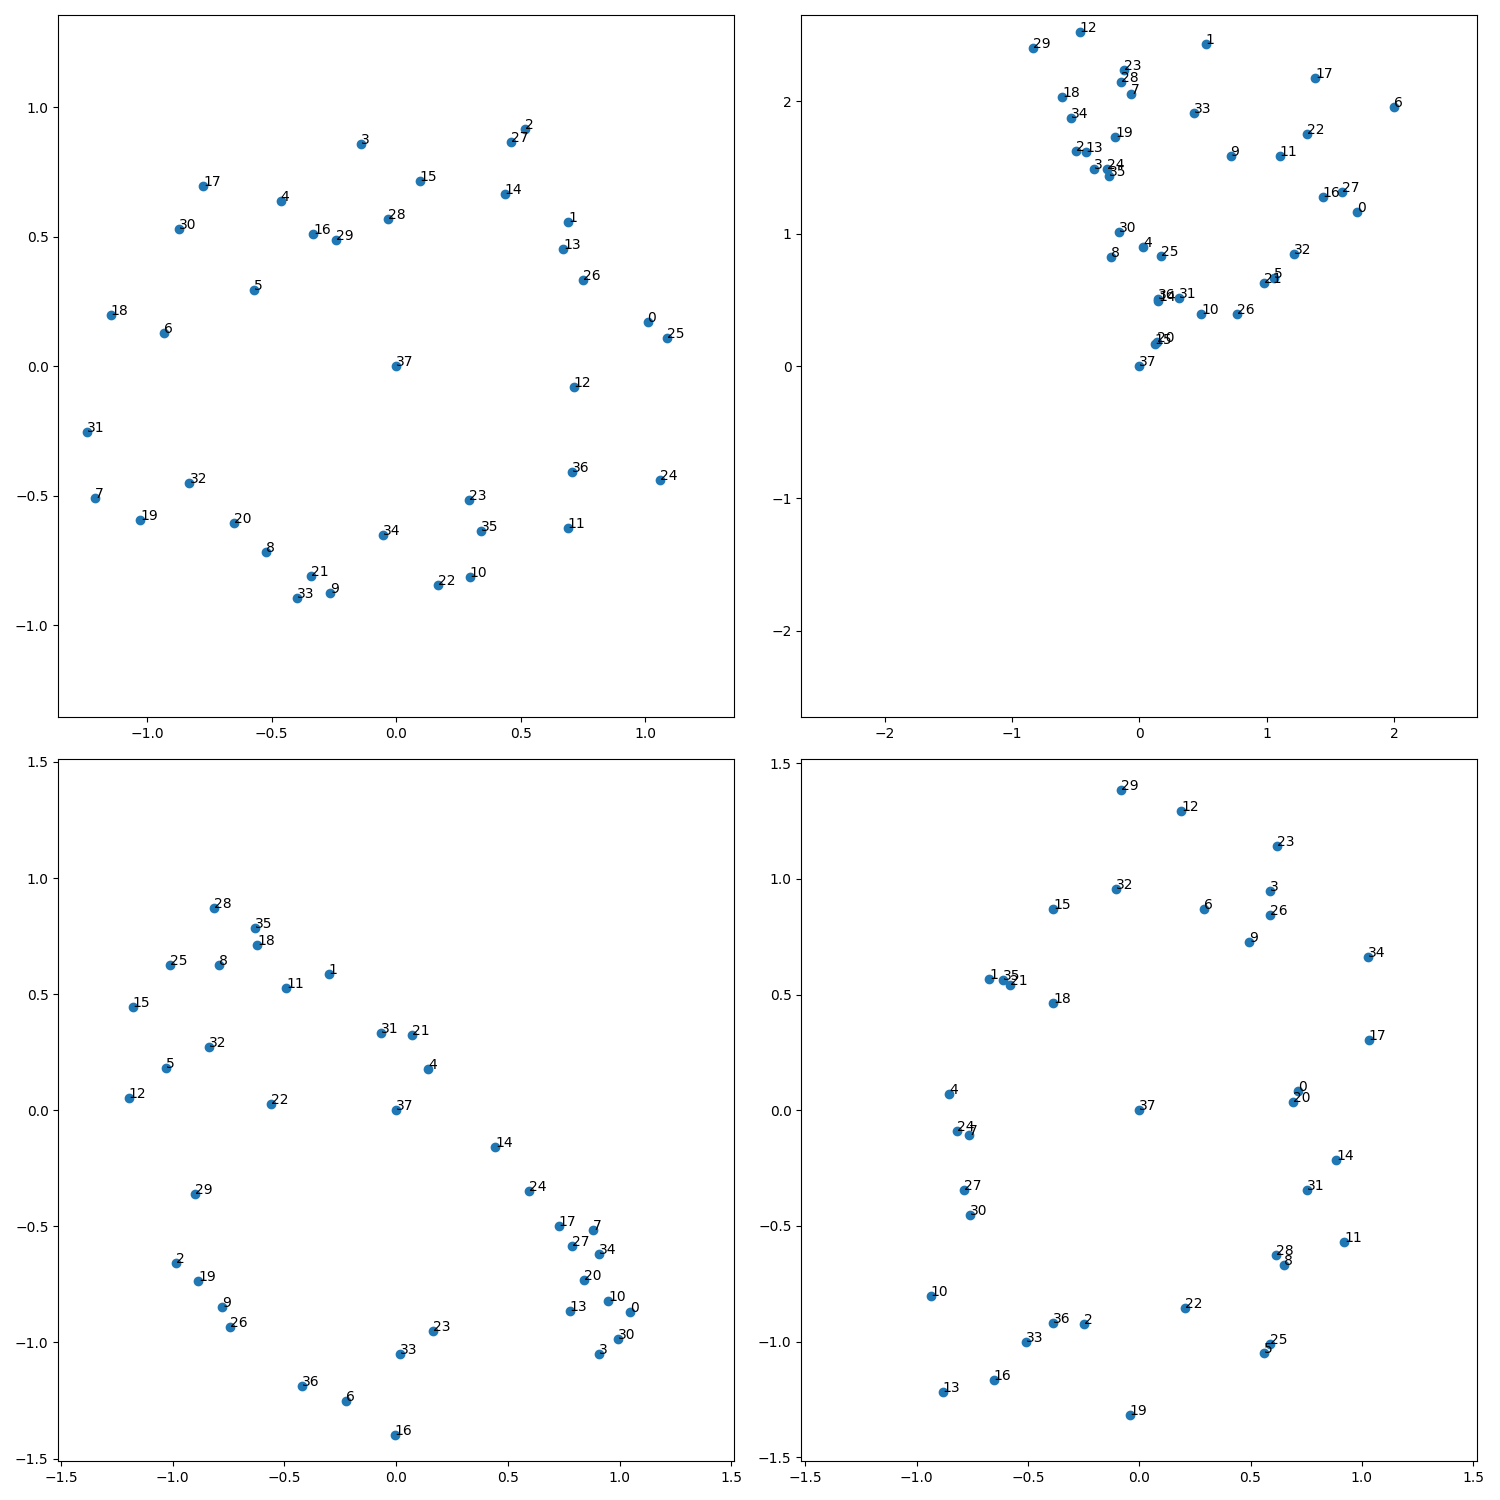
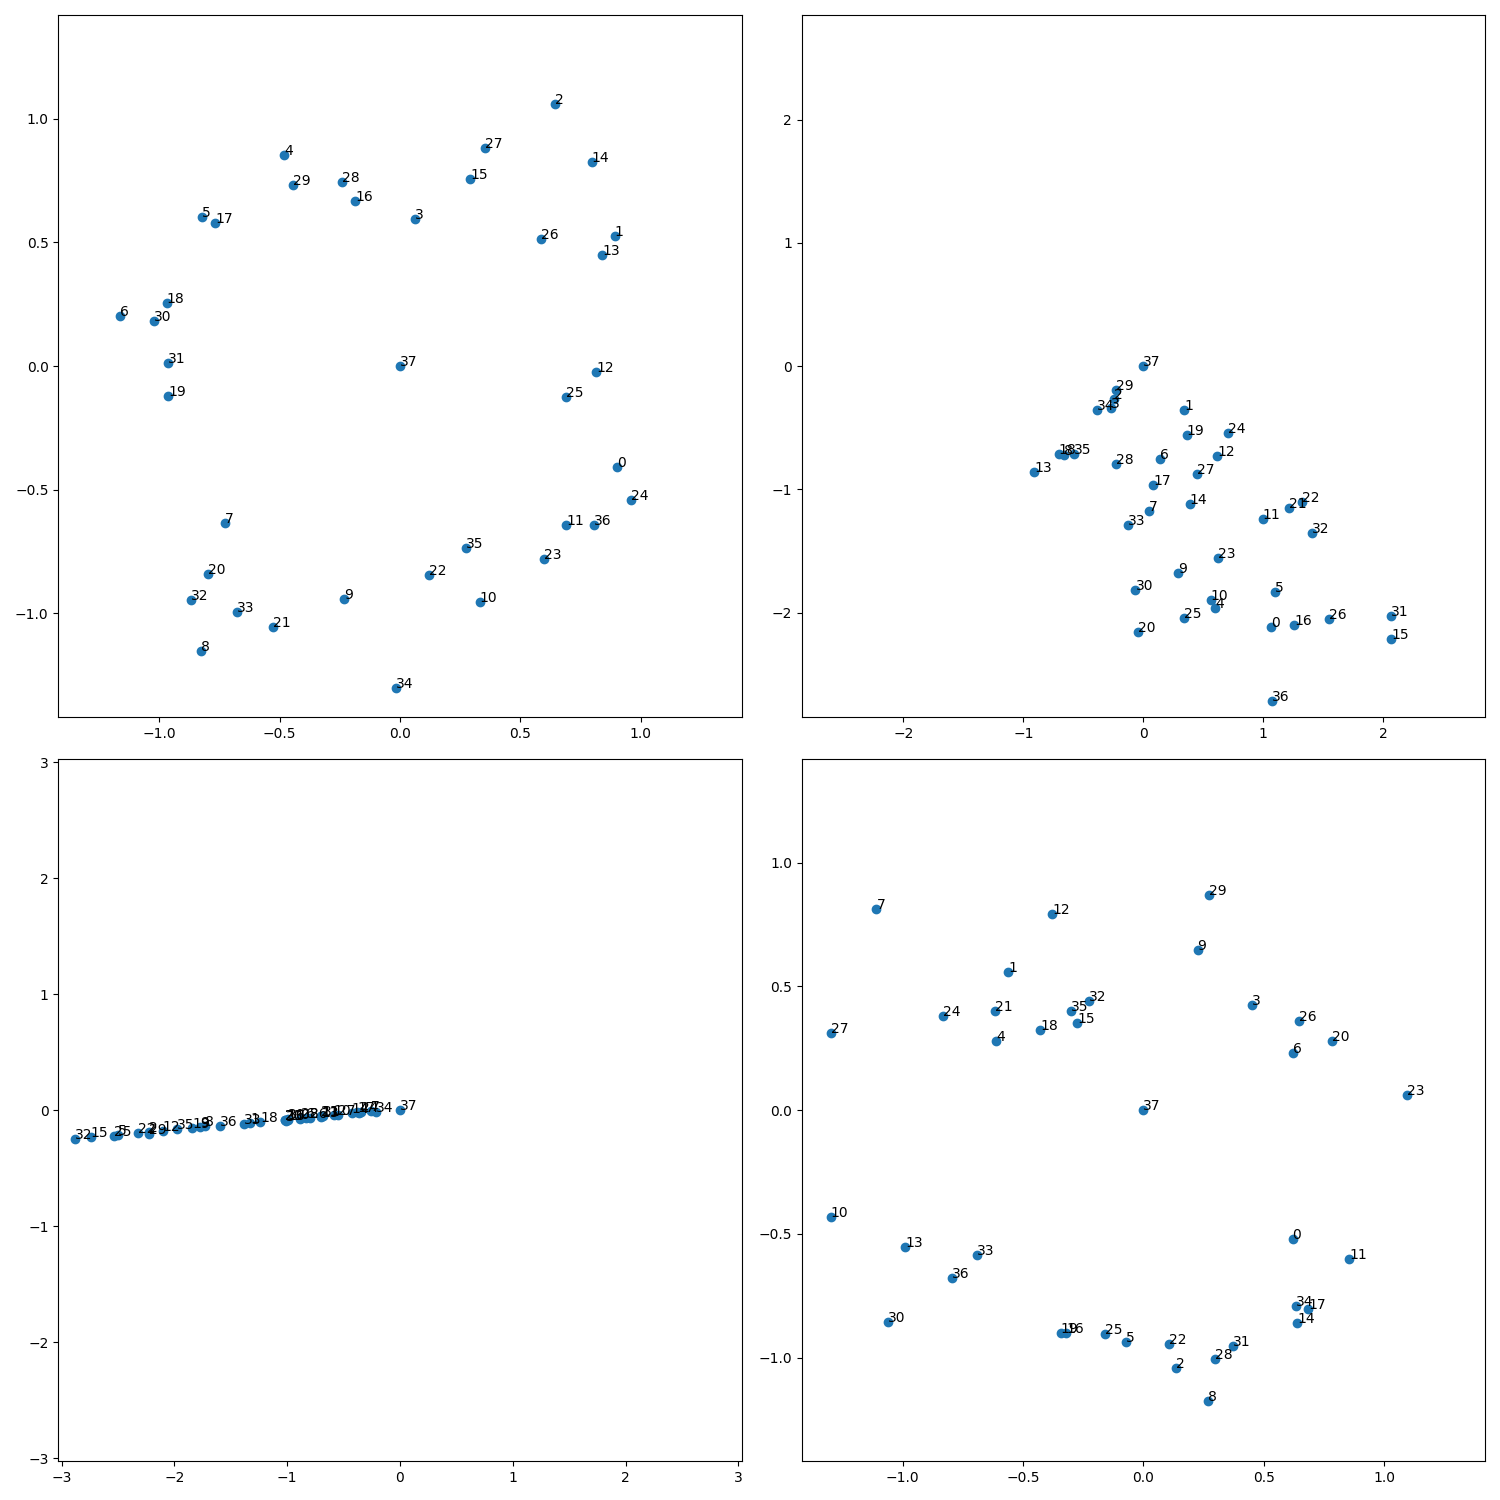
breaking

diff --git a/train_in_sphere_modular_addition.py b/train_in_sphere_modular_addition.py
@@ -5,7 +5,6 @@ from mlp_modular2 import (
     MLP,
     test_model,
     get_train_test_loaders,
-    plot_embeddings,
     plot_embeddings_chunks,
 )
 import torch as t
@@ -193,12 +192,12 @@ def main(checkpoint_path = "modular_addition.ckpt"):
     VOCAB_SIZE = 38
     EMBED_DIM = 8
     HIDDEN_DIM = 8
-    N_EPOCHS = 4000
-    N_EIGENVECTORS = 24
-    LAMBDA_SPHERE = 10
-    LAMBDA_ORTH = 1
+    N_EPOCHS = 10000
+    N_EIGENVECTORS = 30
+    LAMBDA_SPHERE = 20
+    LAMBDA_ORTH = .1
     LR = 0.01
-    LR_DECAY = 0.999
+    LR_DECAY = 0.9997
     WEIGHT_REG = 0.005
 
     # Used to calculate eigenvectors for sphere search 
@@ -222,7 +221,7 @@ def main(checkpoint_path = "modular_addition.ckpt"):
     )
 
     initial_params = None
-    for radius in [15, 20, 25, 30, 35, 40]:
+    for radius in [5, 10, 15, 20, 25, 30, 35, 40, 45, 50]:
         train_in_sphere(
             model,
             train_loader,
